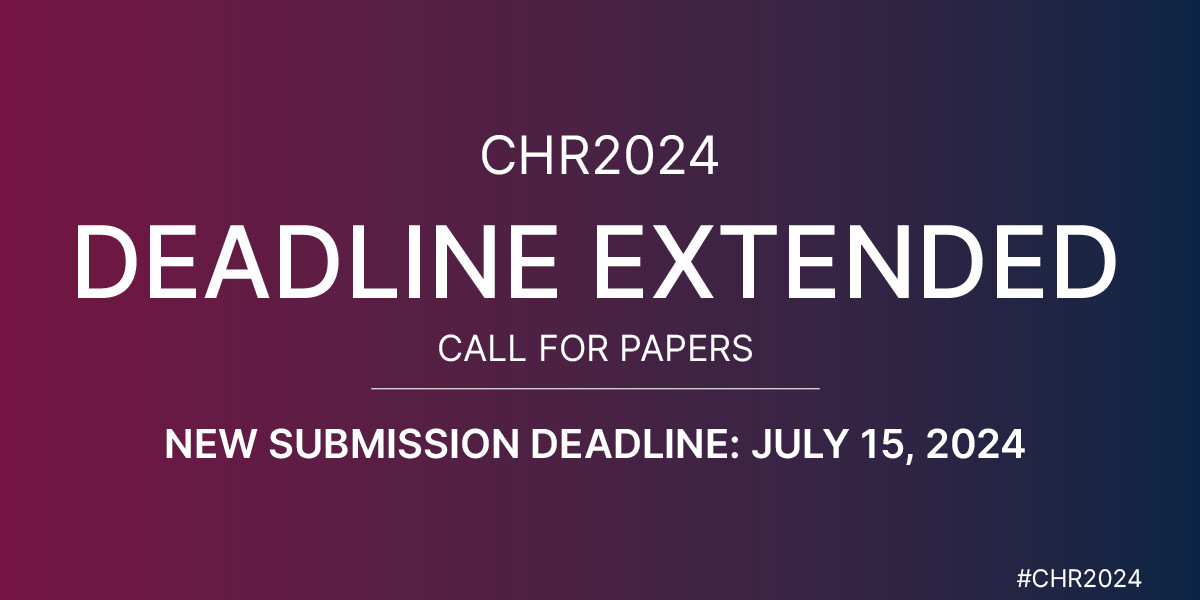
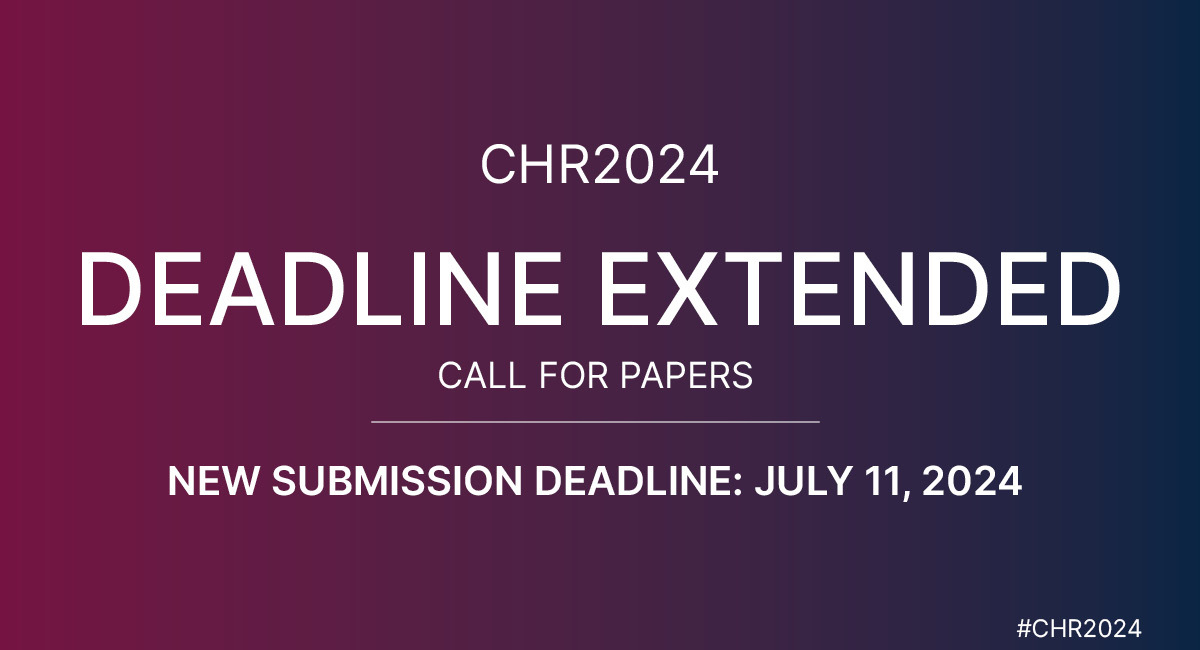
Fix wrong submission deadline and add alt tag

diff --git a/docs/announcements/index.html b/docs/announcements/index.html
@@ -130,6 +130,7 @@
 </style>
 <div class="announcements">
     <div class="announce">
+        <img src="/images/announce/CHR2024-extension.jpg" alt="Call for Papers Extension">
         <div class="content">
             <h3>CFP Deadline Extension</h3>
             <p>
@@ -141,7 +142,7 @@ enrich and analyse...
         </div>
     </div>
     <div class="announce">
-        <img src="/images/announce/lauren-klein.jpg" >
+        <img src="/images/announce/lauren-klein.jpg" alt="Lauren Klein">
         <div class="content">
             <h3>Keynote Lauren Klein</h3>
             <p>

diff --git a/docs/index.html b/docs/index.html
@@ -1,6 +1,6 @@
 <!DOCTYPE html>
 <html><head>
-	<meta name="generator" content="Hugo 0.126.1">
+	<meta name="generator" content="Hugo 0.127.0">
   <meta charset="utf-8">
   <meta name="viewport" content="width=device-width, initial-scale=1, maximum-scale=1.0"/>
   <title>Computational Humanities Research 2024</title>

diff --git a/content/announcements.md b/content/announcements.md
@@ -49,6 +49,7 @@ date: 2021-02-19T16:05:25+01:00
 
 <div class="announcements">
     <div class="announce">
+        <img src="/images/announce/CHR2024-extension.jpg" alt="Call for Papers Extension">
         <div class="content">
             <h3>CFP Deadline Extension</h3>
             <p>
@@ -60,7 +61,7 @@ enrich and analyse...
         </div>
     </div>
     <div class="announce">
-        <img src="/images/announce/lauren-klein.jpg" >
+        <img src="/images/announce/lauren-klein.jpg" alt="Lauren Klein">
         <div class="content">
             <h3>Keynote Lauren Klein</h3>
             <p>
